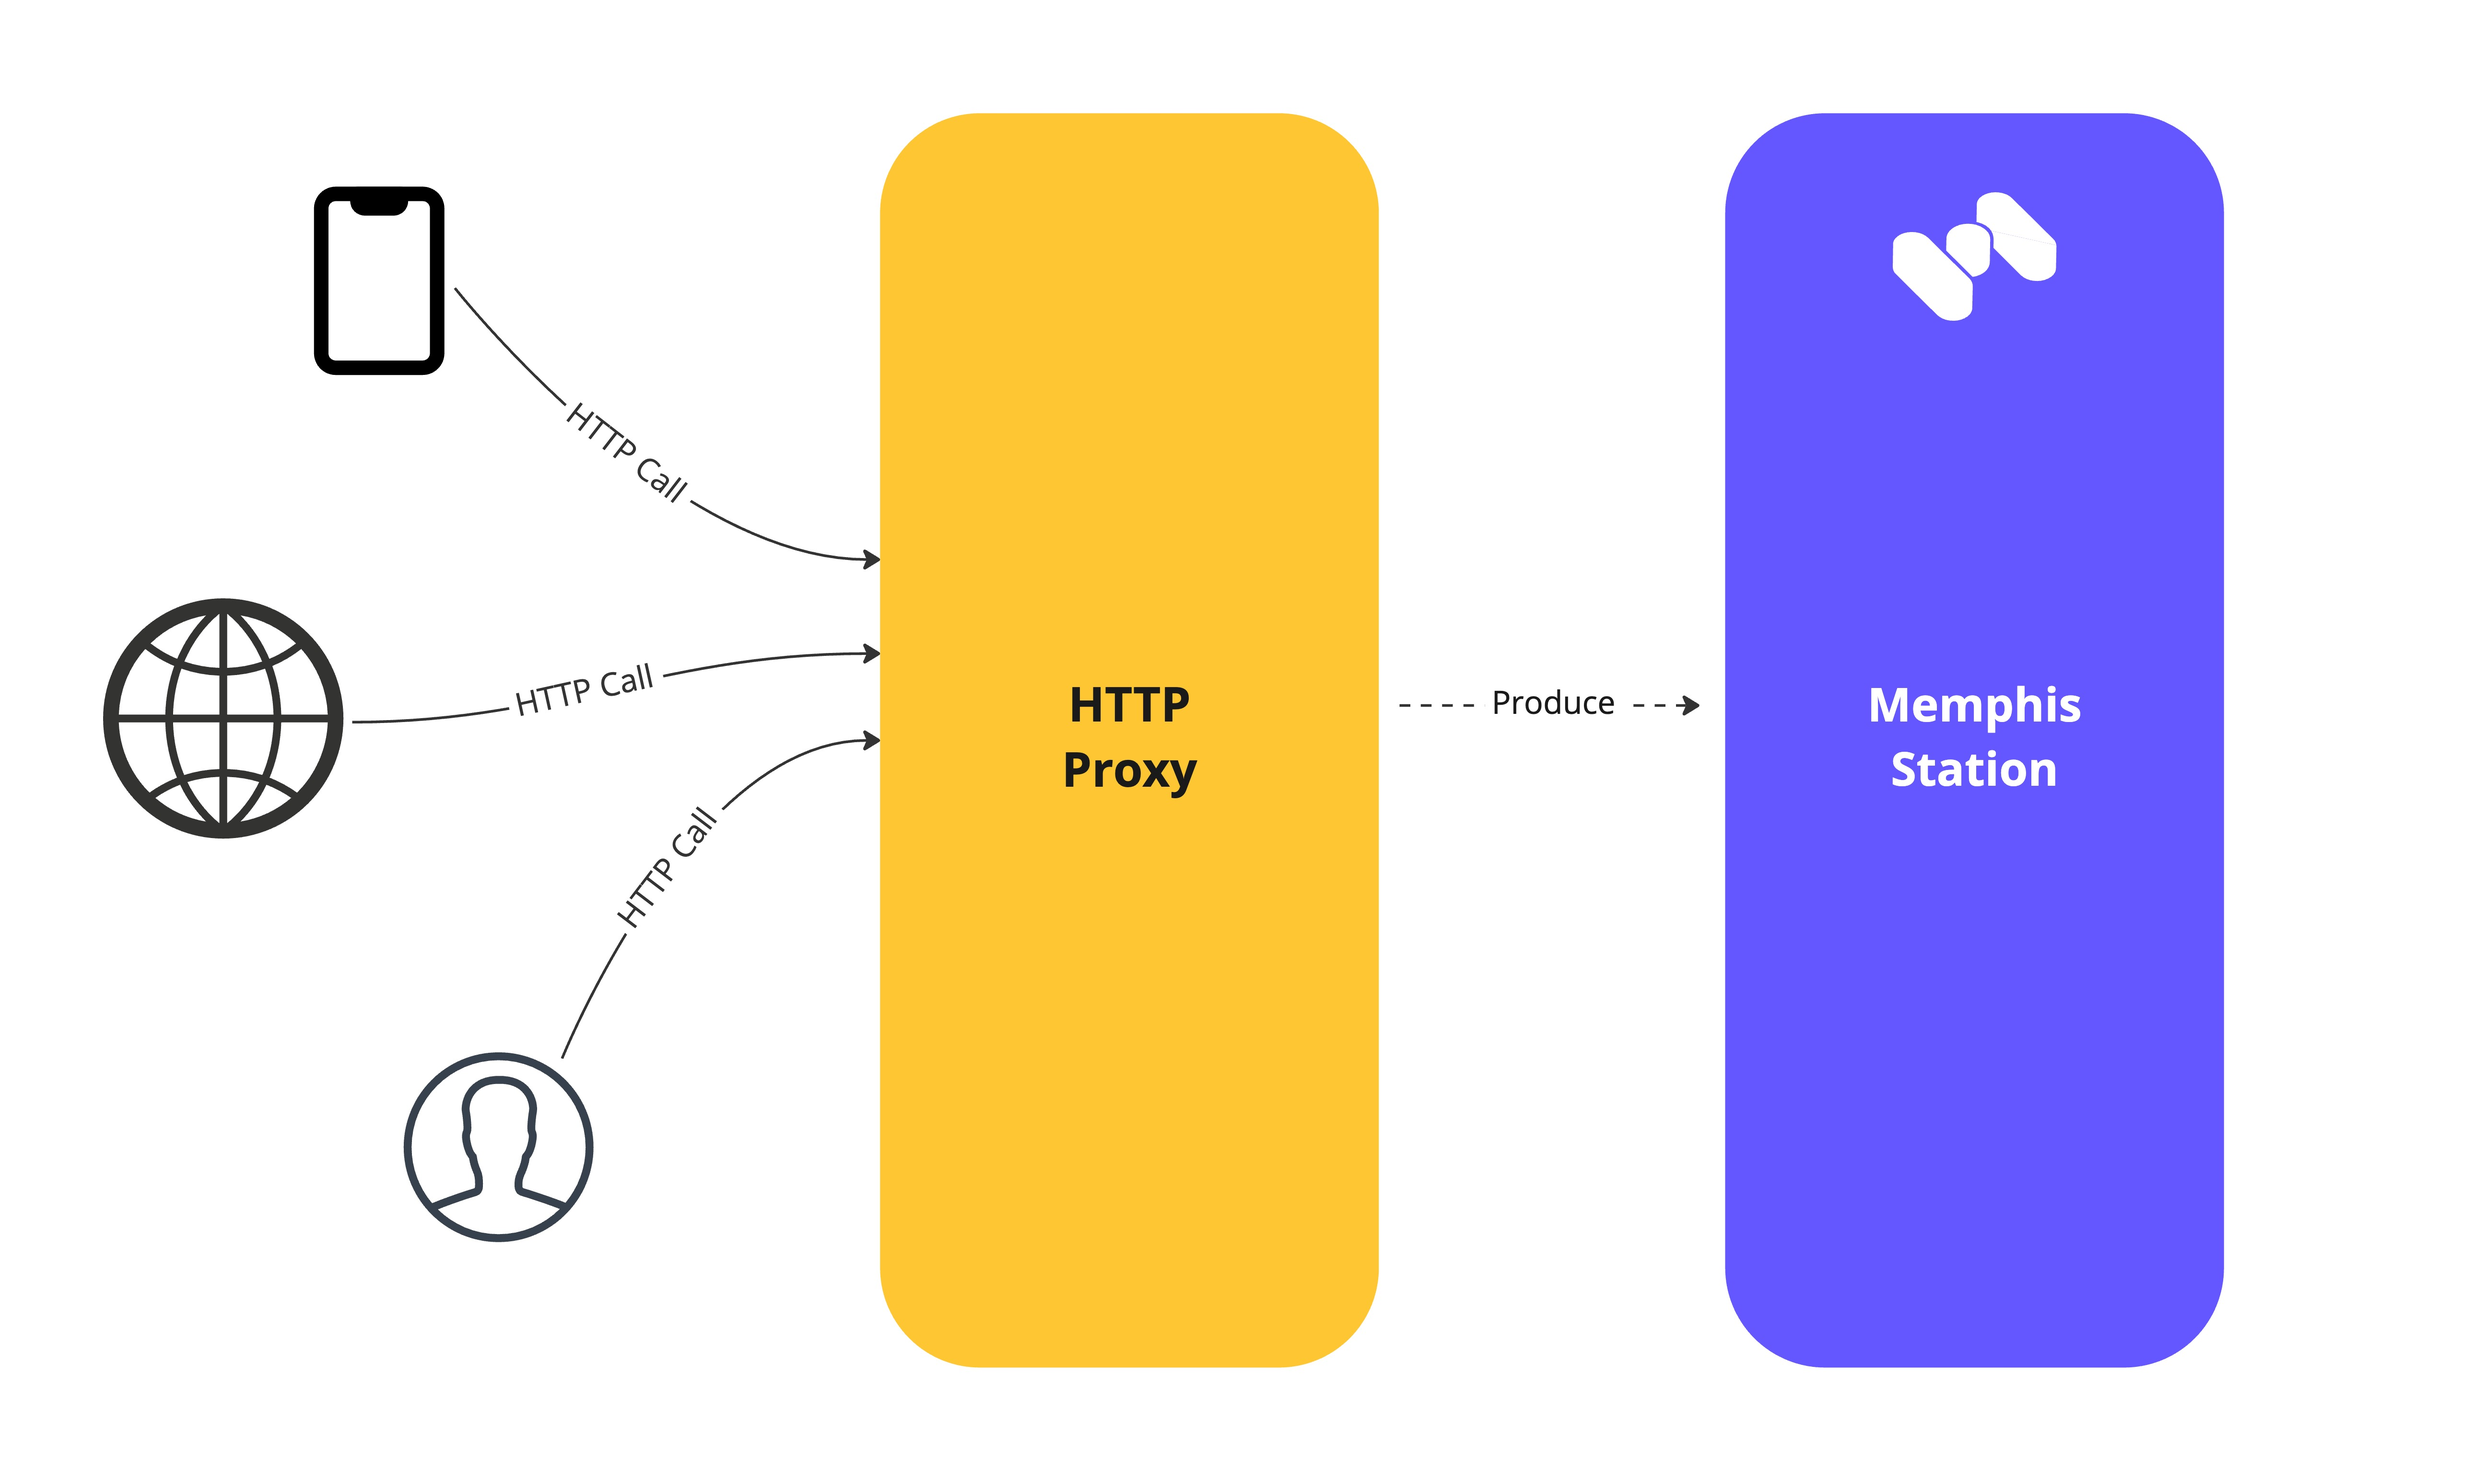
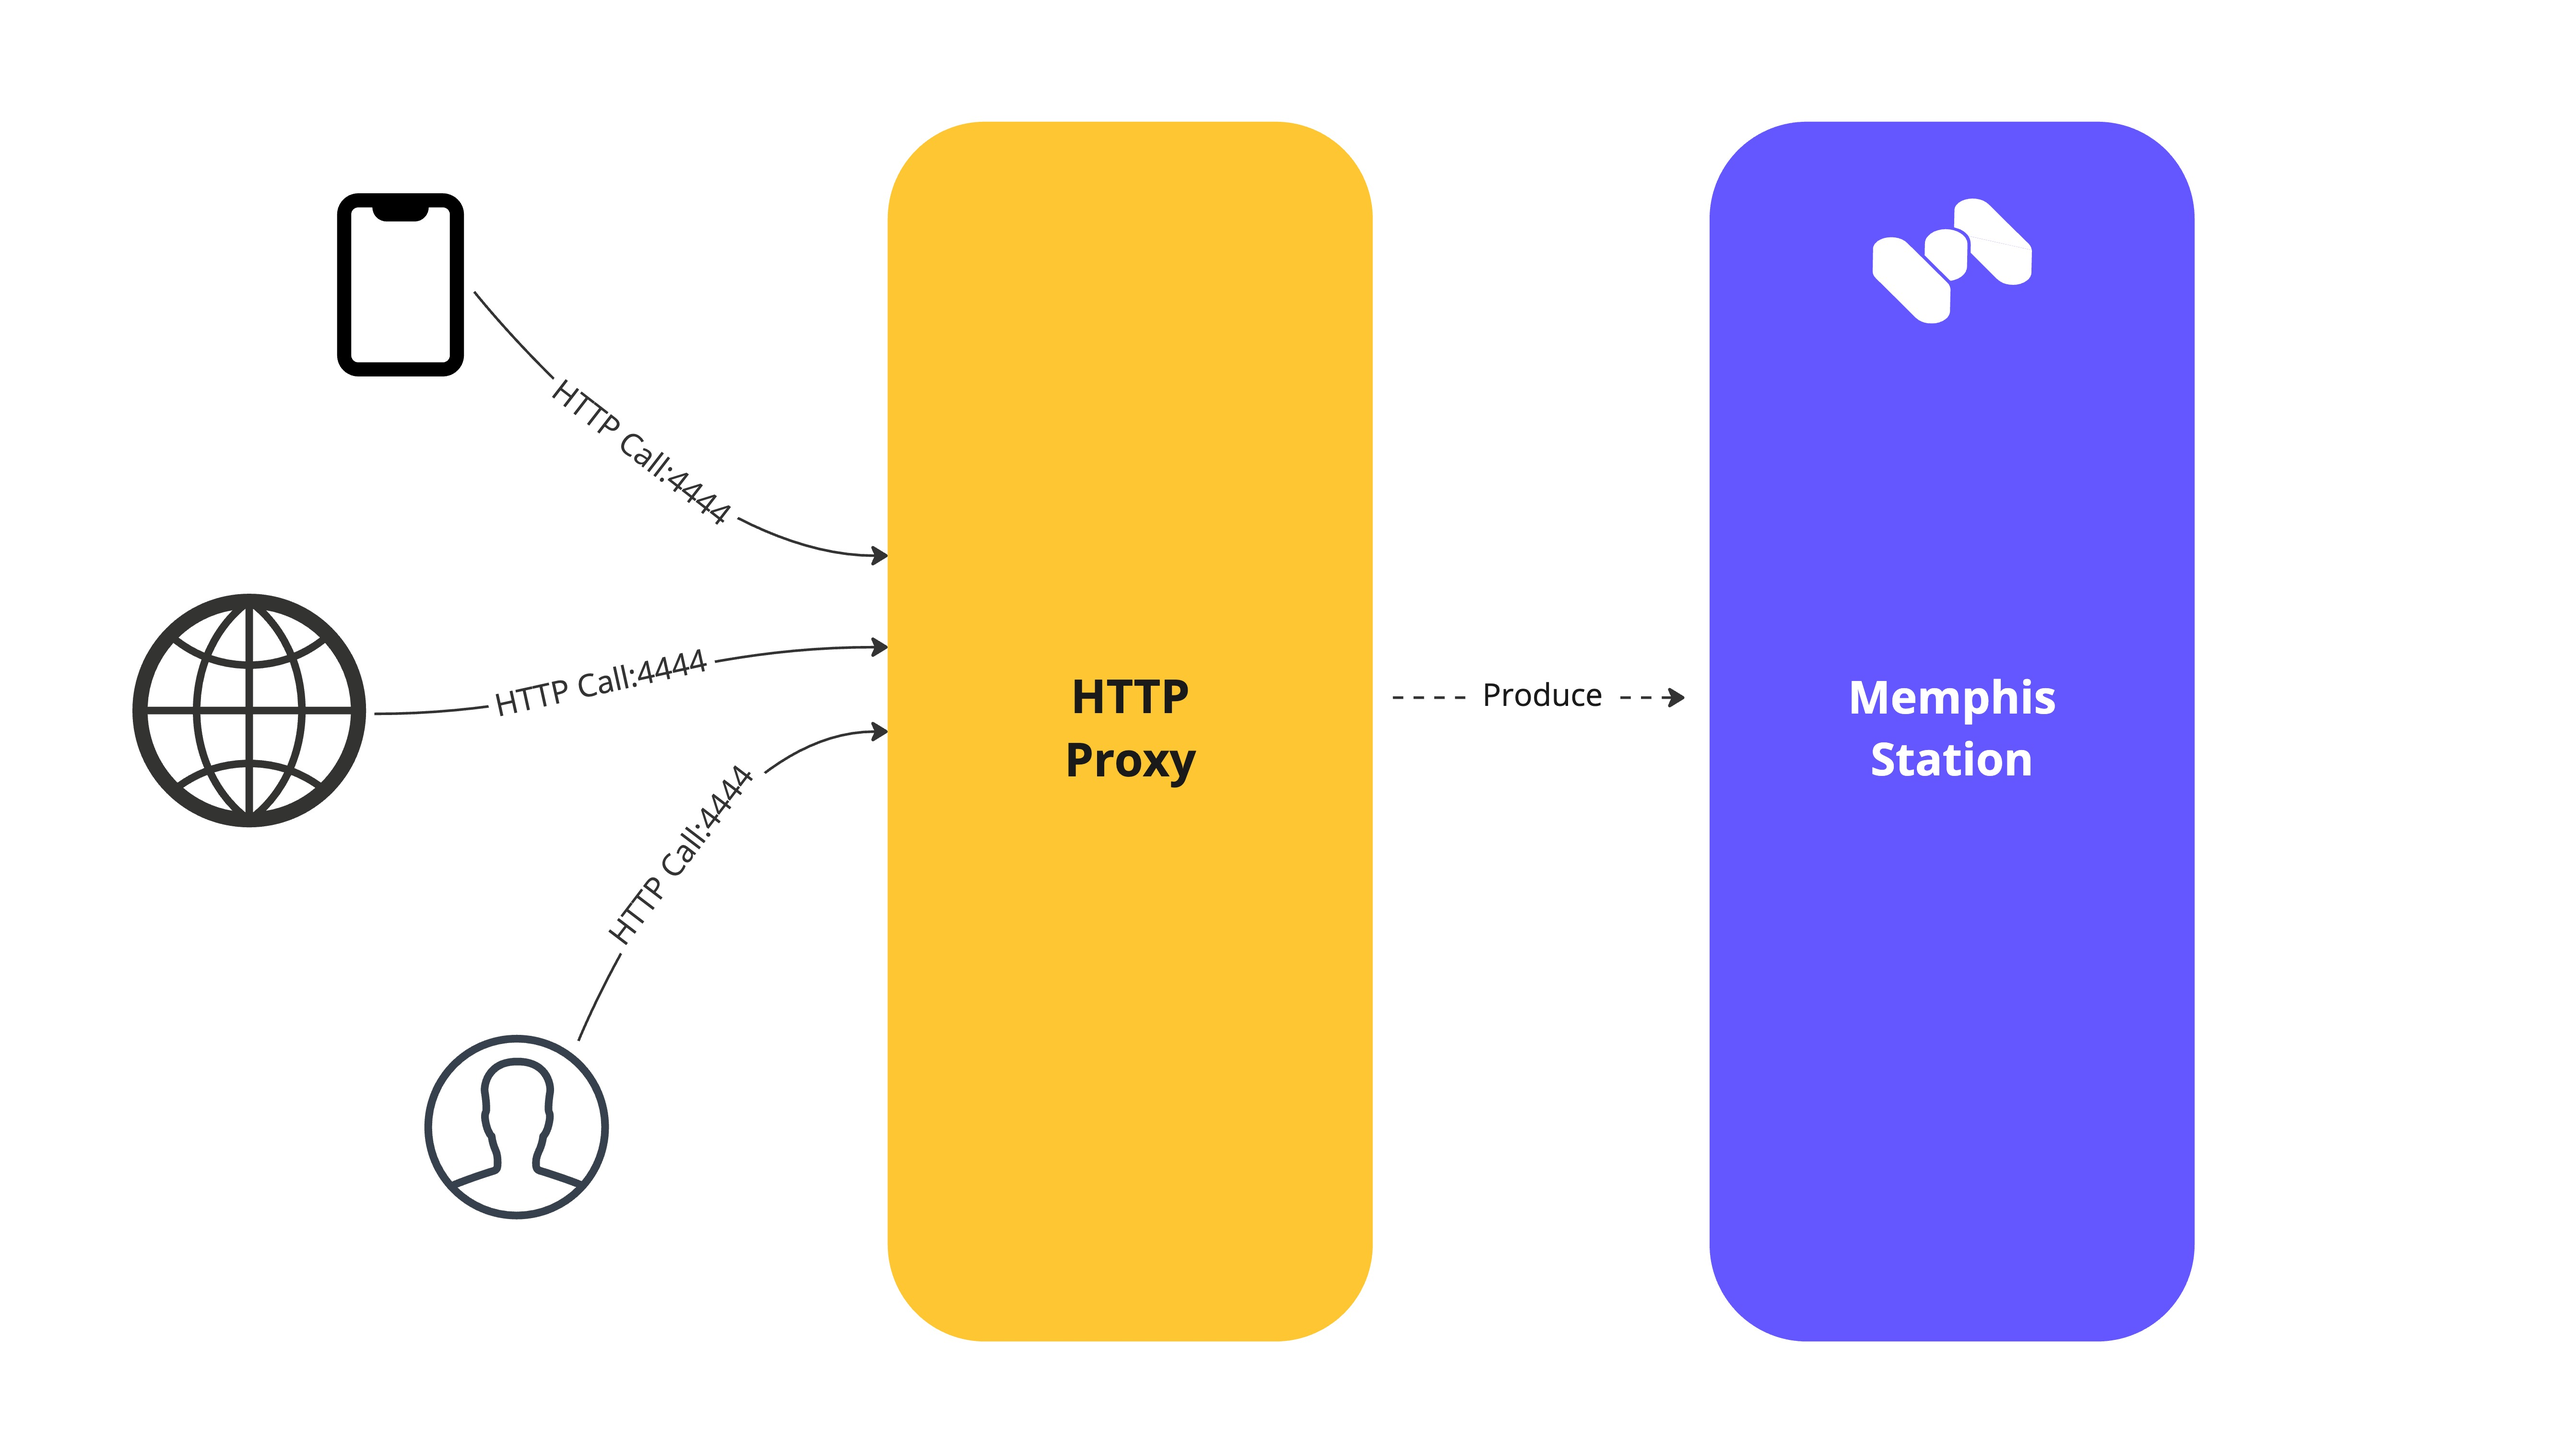
GitBook: [#581] No subject

diff --git a/sdks-and-protocols/http.md b/sdks-and-protocols/http.md
@@ -12,18 +12,18 @@ Popular use cases are producing events directly from a browser, user session, fr
 
 ## Architecture
 
-1. An endpoint creates an HTTP request toward the HTTP Proxy
+1. An endpoint creates an HTTP request toward the HTTP Proxy using **port 4444**
 2. The HTTP Proxy receives the incoming request and produces it as a message to the station
 
 <figure><img src="../.gitbook/assets/http proxy.jpeg" alt=""><figcaption></figcaption></figure>
 
-For scale requirements, the "HTTP Proxy" component is apart from the brokers' pod and can be scale-out individually.
+For scale requirements, the "HTTP Proxy" component is separate from the brokers' pod and can scale out individually.
 
 ## Usage
 
 ### Authenticate
 
-First you have to authenticate to get JWT token:\
+First, you have to authenticate to get a JWT token.\
 The JWT token is valid by default for 15 minutes.
 
 #### Example:
@@ -65,10 +65,8 @@ Expected output:
 ### Produce Single Message
 
 {% hint style="info" %}
-Attach to every request:\
-JWT token as 'Bearer'\
-Headers - Content-Type, and any other headers\
-Body
+Attach the JWT token to every request.\
+JWT token as '`Bearer`' as a header.
 {% endhint %}
 
 #### Supported content types:
